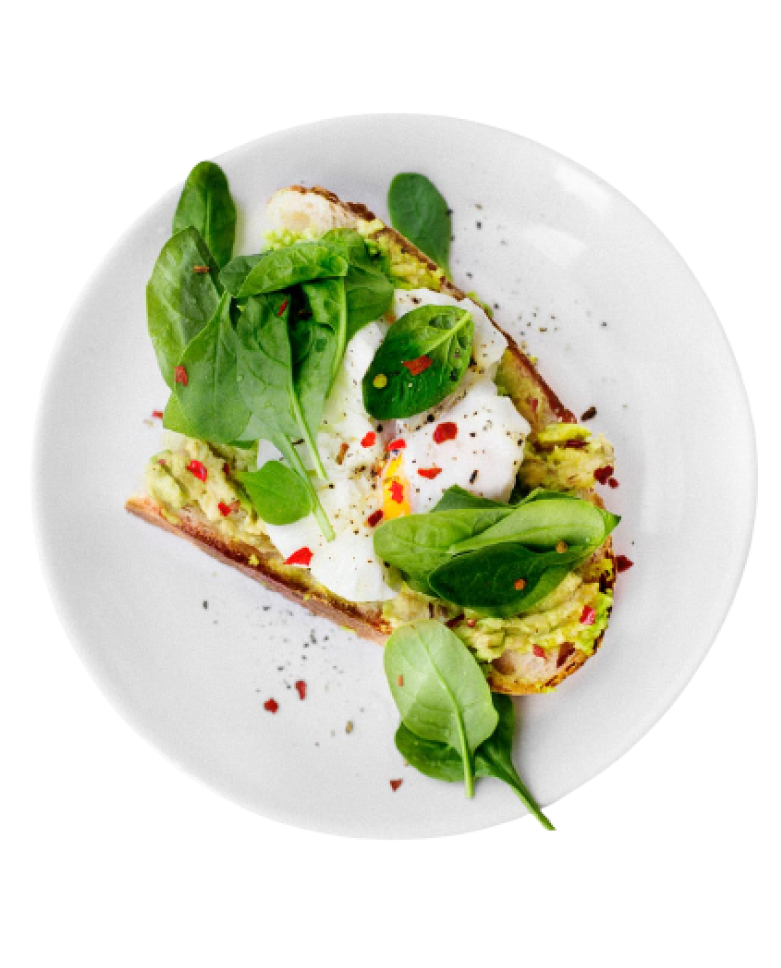
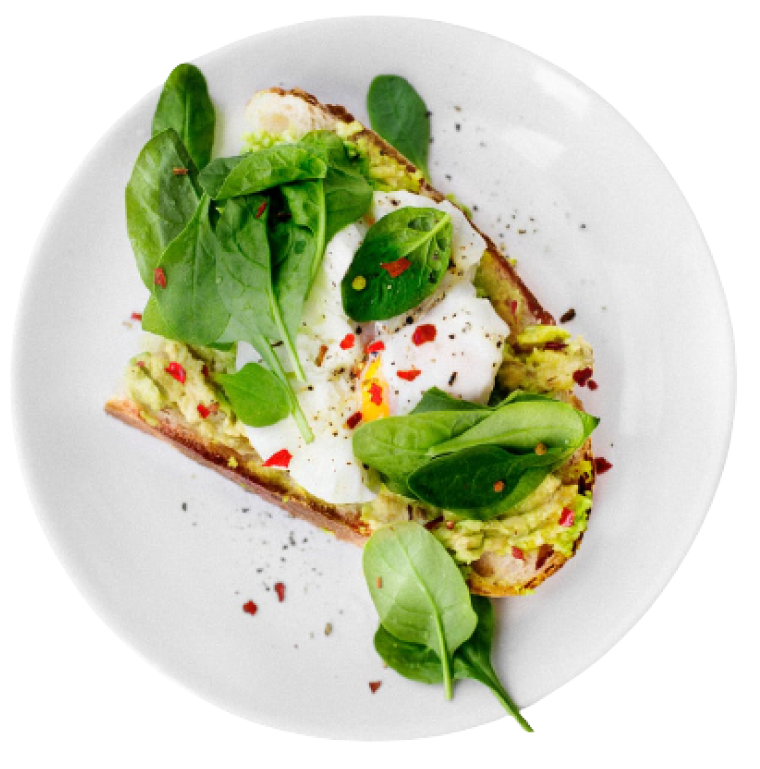
style: styles section special dishes

diff --git a/src/styles/styles.css b/src/styles/styles.css
@@ -120,6 +120,13 @@ header{
     border-radius: 10px;
     font-size: 16px;
     font-weight: 600;
+    transition: 0.4s;
+}
+
+#btn-order:hover{
+    cursor: pointer;
+    transform: translatey(-3px);
+    box-shadow: 2px 5px 4px rgba(171, 190, 209, 0.60);
 }
 
 #btn-explore{
@@ -130,6 +137,13 @@ header{
     font-size: 16px;
     font-weight: 600;
     border: 1px solid var(--color-primary);
+    transition: 0.4s;
+}
+
+#btn-explore:hover{
+    cursor: pointer;
+    transform: translatey(-3px);
+    box-shadow: 2px 5px 4px rgba(171, 190, 209, 0.60);
 }
 
 .deliver-image img{
@@ -221,5 +235,67 @@ header{
 /* ------------------------ Fim Choose Us ------------------------ */
 
 /* ------------------------ Special dishes ------------------------ */
+.special-dishes{    
+    display: flex;
+    flex-direction: column;
+    align-items: center;
+    gap: 60px;
+    padding: 100px;    
+}
 
+.special-dishes h2{
+    font-size: 48px;
+    font-weight: 900;
+}
+
+.special-container{
+    display: flex;
+    gap: 20px;
+    margin-top: 60px;
+}
+
+.special-card{
+    width: 400px;
+    height: 485px;
+    box-sizing: border-box;
+    display: flex;
+    flex-direction: column;
+    justify-content: center;
+    align-items: center;
+}
+
+.special-card p{
+    width: 279px;
+    color: var(--color-black);
+    margin: 16px 0px;
+    font-size: 18px;
+    font-weight: 300;
+    text-align: center;
+}
+
+.special-card h3{
+    margin-top: 16px;
+    font-weight: 900;
+    font-size: 28px;
+    /* text-align: center; */
+}
+
+.special-card button{
+    background-color: var(--color-primary);
+    color: var(--color-white);
+    padding: 16px 140px;
+    border-radius: 8px;
+    font-weight: 600;
+    transition: 0.4s;
+}
+
+.special-card button:hover{
+    cursor: pointer;
+    transform: translatey(-3px);
+    box-shadow: 2px 5px 4px rgba(171, 190, 209, 0.60);
+}
+
+.special-card img{
+    height: 242px;
+}
 /* ------------------------ Fim Special dishes ------------------------ */
